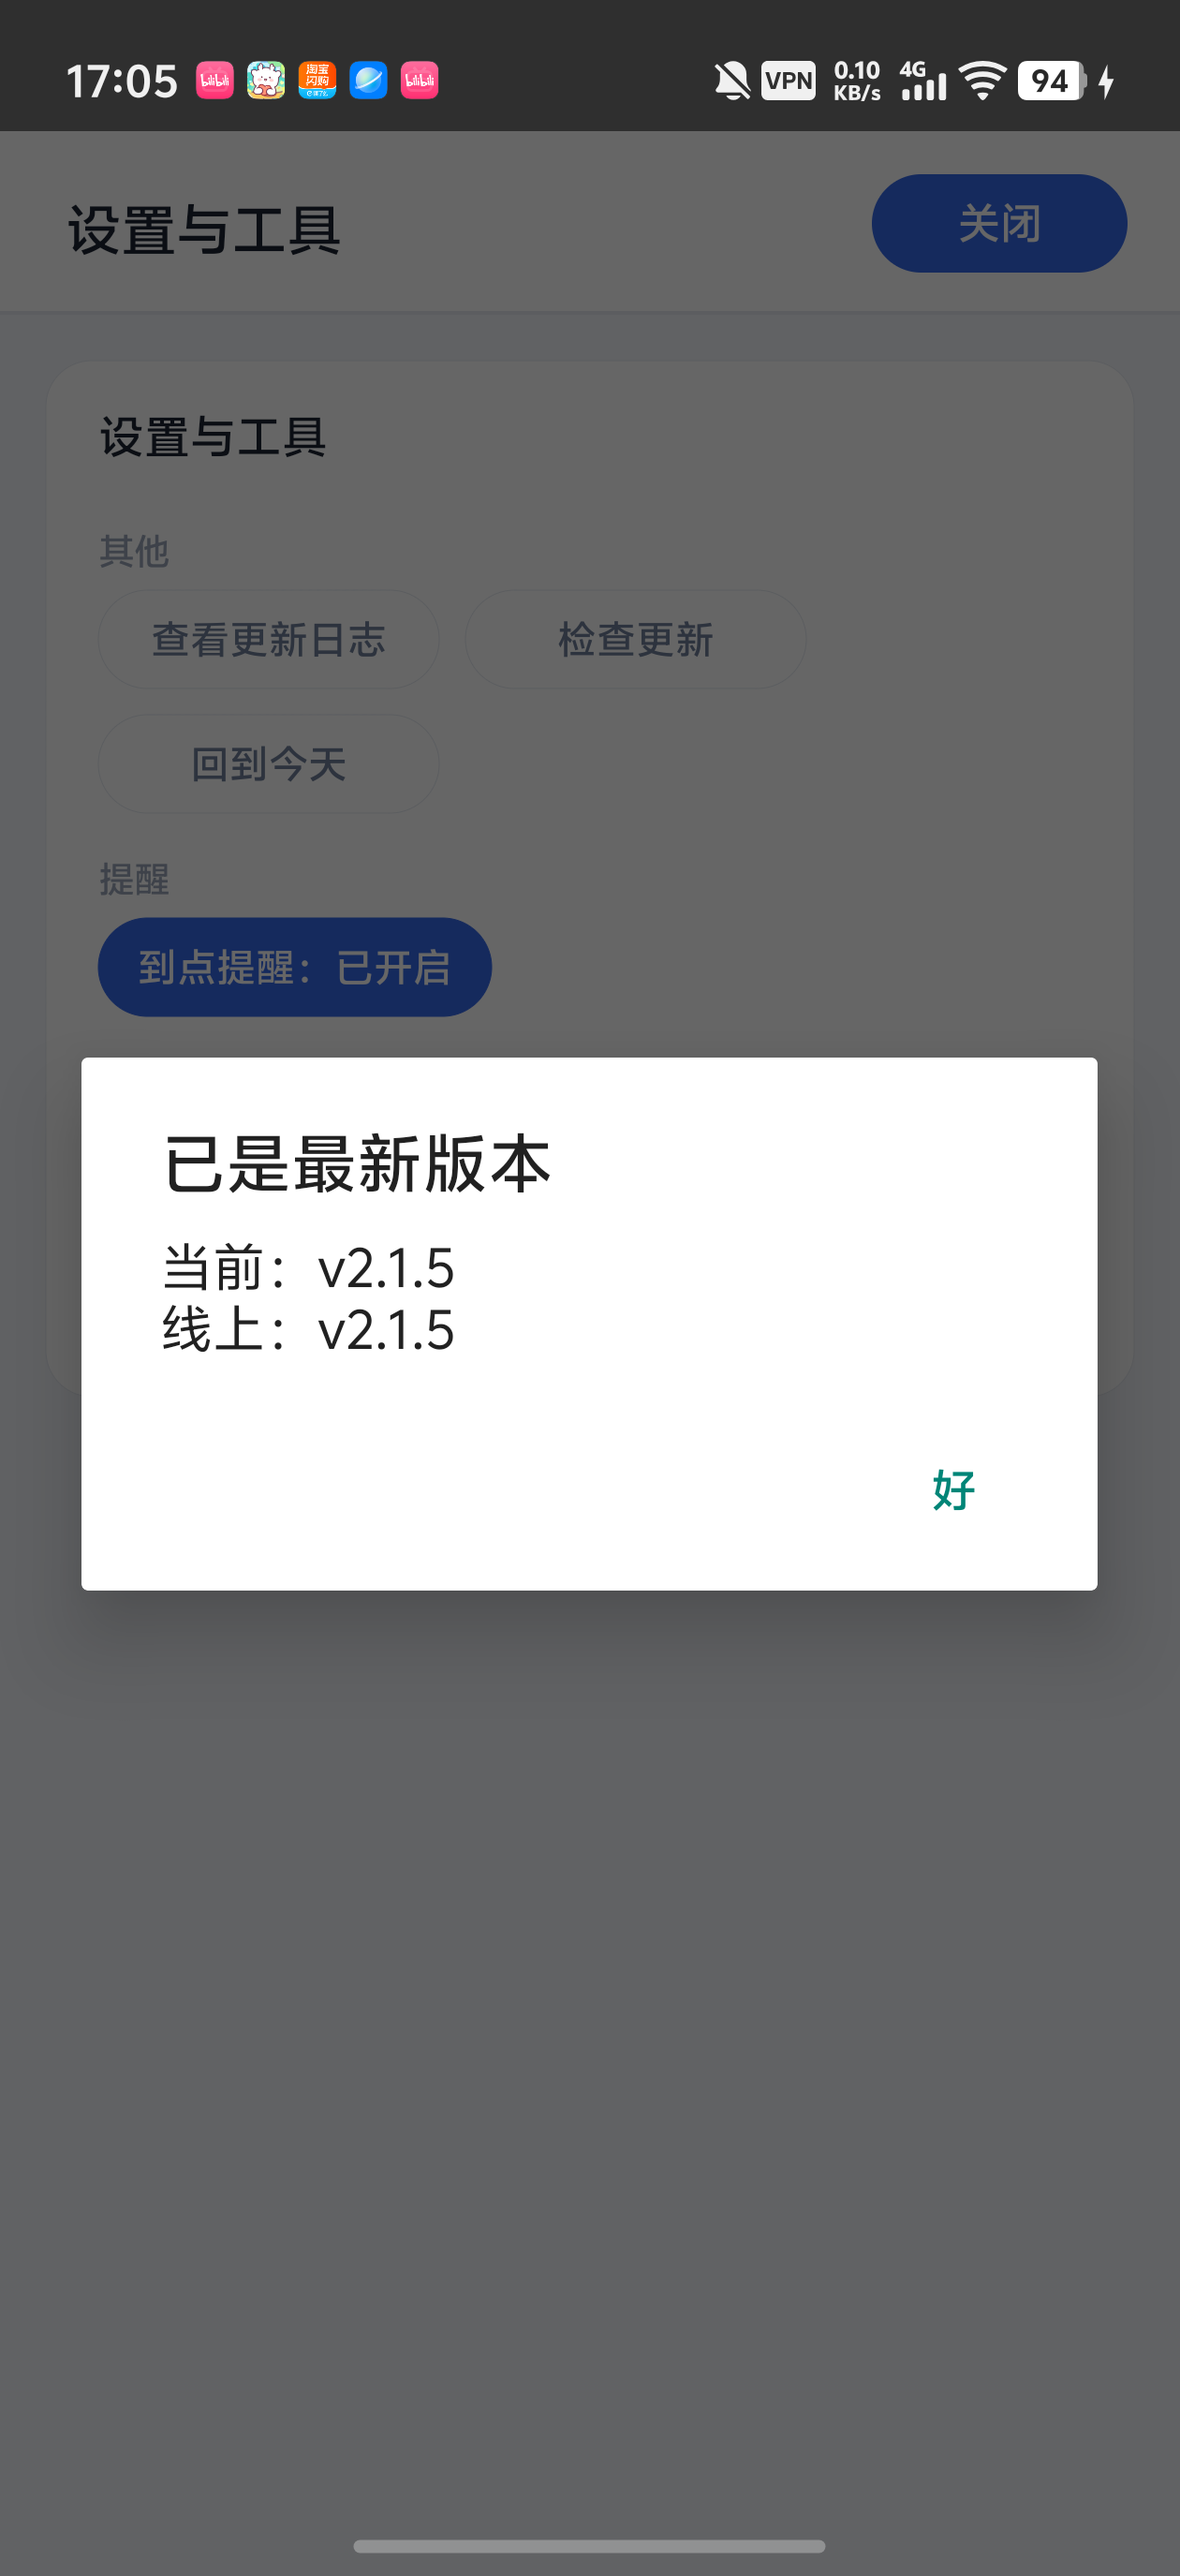
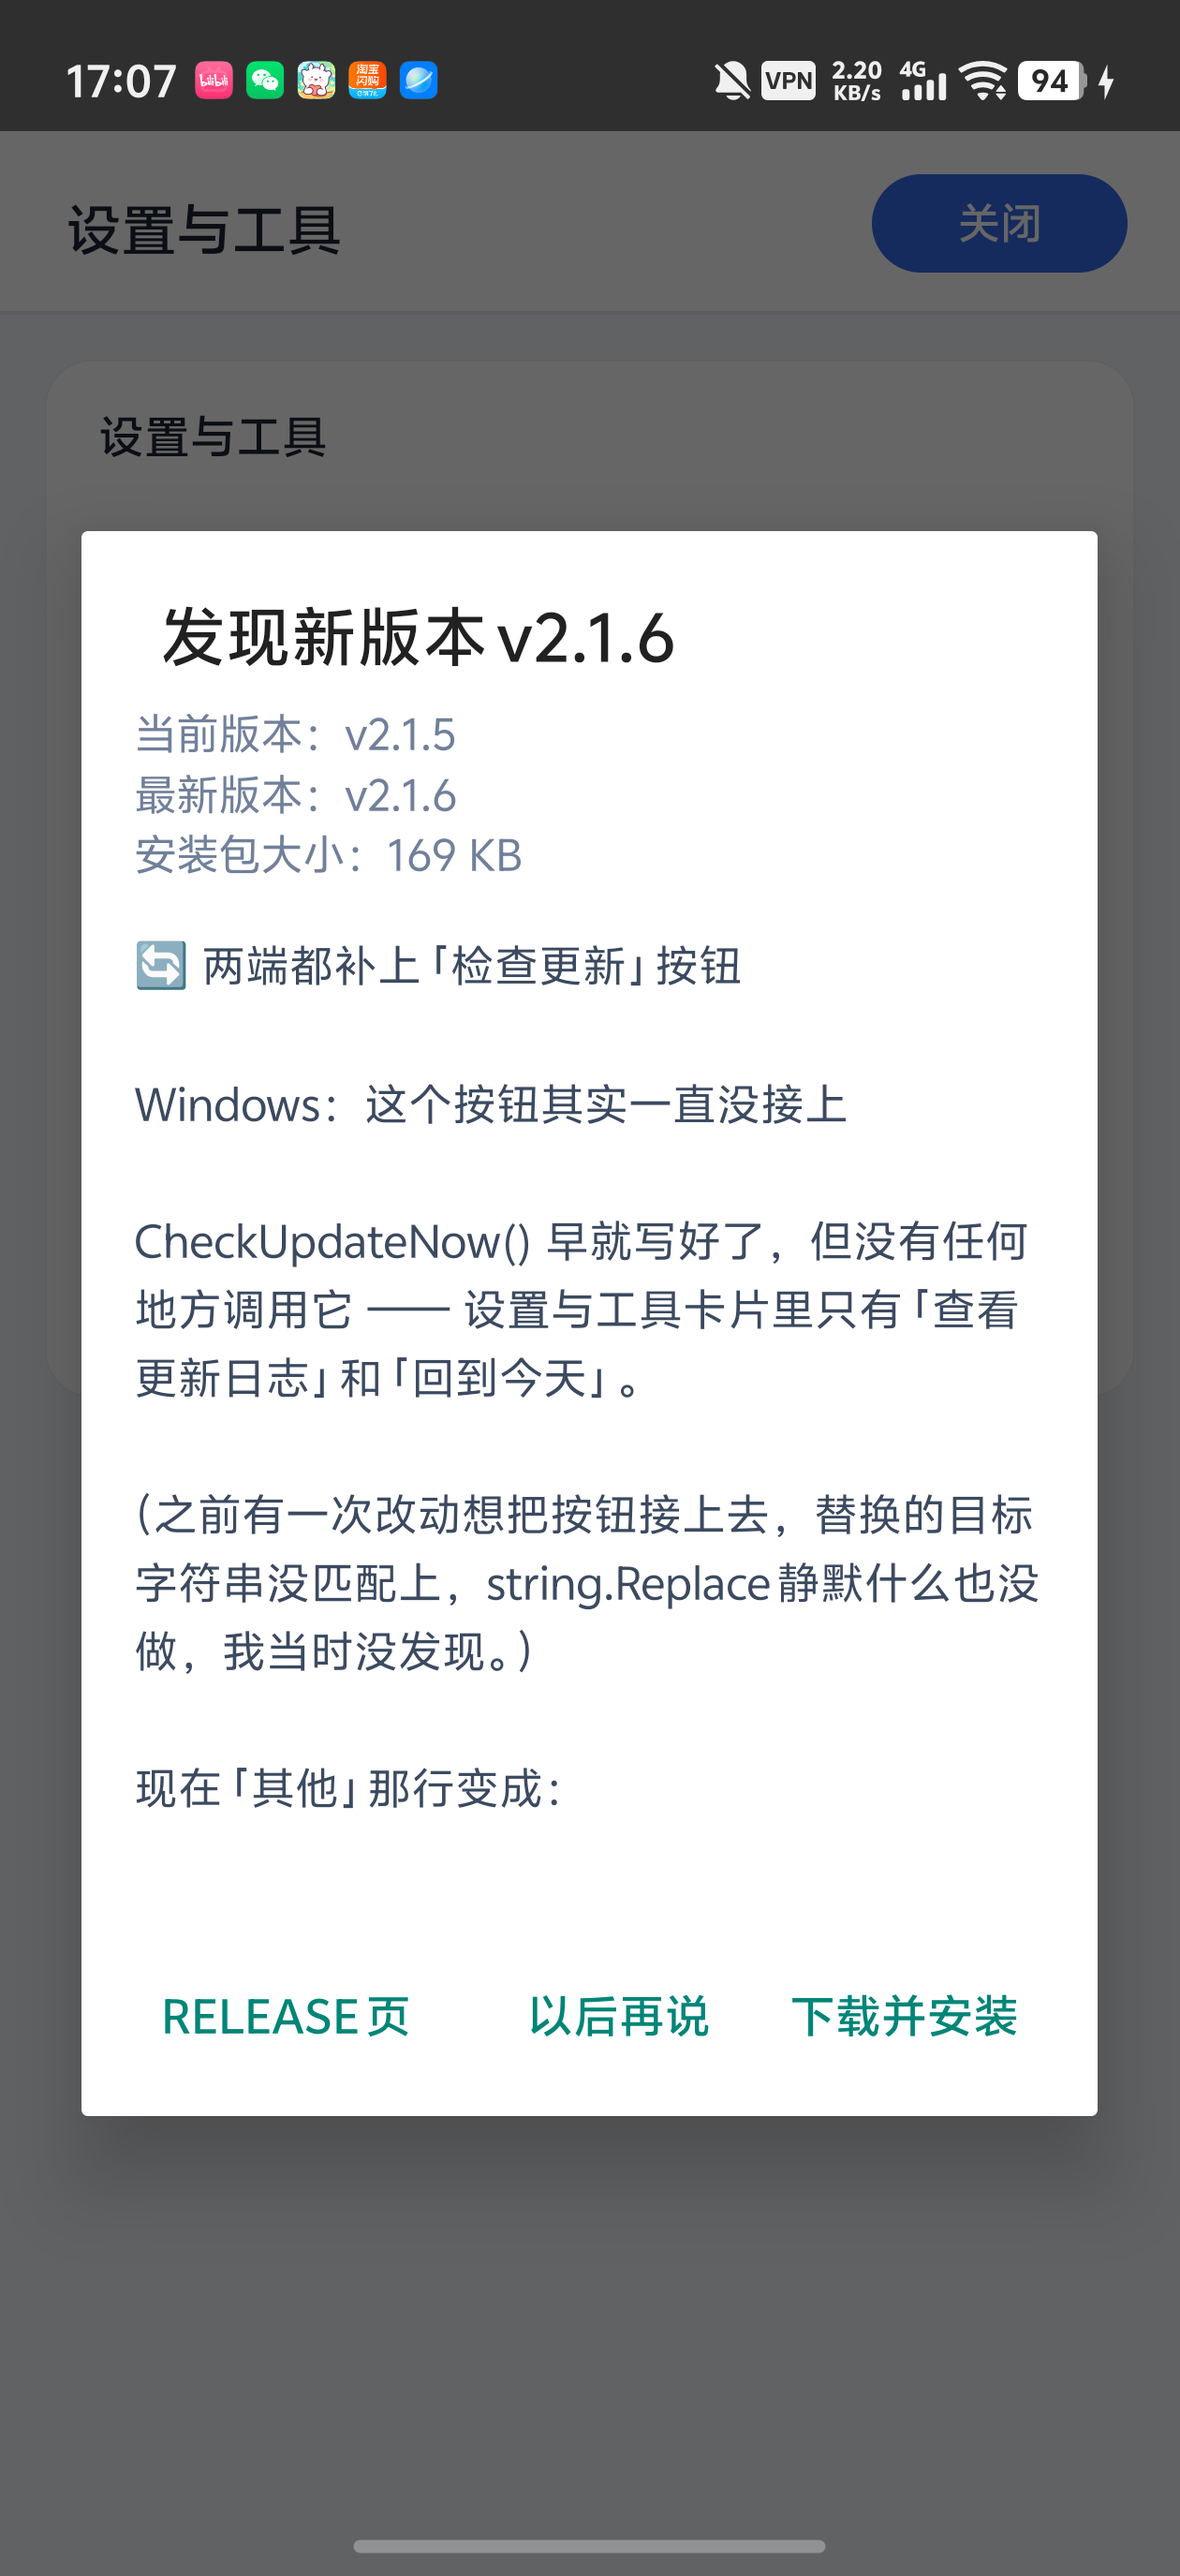
v2.1.7：升级弹窗按钮不再全大写
Material 主题默认把对话框按钮文字转成全大写，
'Release 页' 显示成了 'RELEASE 页'。
show() 之后逐个 setAllCaps(false) 关掉。

diff --git a/StudyCompanionAndroid/src/com/studycompanion/MainActivity.java b/StudyCompanionAndroid/src/com/studycompanion/MainActivity.java
@@ -136,17 +136,26 @@ public class MainActivity extends Activity implements MainView.Listener {
                     android.widget.LinearLayout.LayoutParams.MATCH_PARENT, h));
         }
 
-        new AlertDialog.Builder(this)
+        AlertDialog dlg = new AlertDialog.Builder(this)
                 .setTitle("发现新版本 " + rel.tag)
                 .setView(box)
                 .setPositiveButton("下载并安装", new DialogInterface.OnClickListener() {
-                    public void onClick(DialogInterface dlg, int w) { downloadApk(rel); }
+                    public void onClick(DialogInterface d2, int w) { downloadApk(rel); }
                 })
                 .setNeutralButton("Release 页", new DialogInterface.OnClickListener() {
-                    public void onClick(DialogInterface dlg, int w) { openUrl(rel.pageUrl); }
+                    public void onClick(DialogInterface d2, int w) { openUrl(rel.pageUrl); }
                 })
                 .setNegativeButton("以后再说", null)
-                .show();
+                .create();
+        dlg.show();
+
+        // Material 主题默认把对话框按钮文字转成全大写（"Release 页" -> "RELEASE 页"），关掉
+        android.widget.Button b1 = dlg.getButton(AlertDialog.BUTTON_POSITIVE);
+        android.widget.Button b2 = dlg.getButton(AlertDialog.BUTTON_NEUTRAL);
+        android.widget.Button b3 = dlg.getButton(AlertDialog.BUTTON_NEGATIVE);
+        if (b1 != null) b1.setAllCaps(false);
+        if (b2 != null) b2.setAllCaps(false);
+        if (b3 != null) b3.setAllCaps(false);
     }
 
     /** 上次崩溃过就把堆栈弹出来 —— 手机上没法看 logcat，这是唯一能拿到线索的办法 */

diff --git a/StudyCompanionAndroid/src/com/studycompanion/GitHub.java b/StudyCompanionAndroid/src/com/studycompanion/GitHub.java
@@ -34,7 +34,7 @@ public class GitHub {
     public static final String SCOPE = "repo";
 
     /** 鏈?APK 瀵瑰簲鐨?Release 鏍囩銆傛瘡娆″彂鐗堟椂涓?Release 涓€璧锋敼锛岀敤浜庡垽鏂湁娌℃湁鏂扮増銆?*/
-    public static final String VERSION_TAG = "v2.1.6";
+    public static final String VERSION_TAG = "v2.1.7";
 
     public static final String DEVICE_CODE_URL = "https://github.com/login/device/code";
     public static final String TOKEN_URL = "https://github.com/login/oauth/access_token";

diff --git a/StudyCompanion/src/GitHub.cs b/StudyCompanion/src/GitHub.cs
@@ -49,7 +49,7 @@ namespace StudyCompanion
         public const string Scope = "repo";
 
         /// <summary>本 exe 对应的 Release 标签，用于判断有没有新版</summary>
-        public const string VersionTag = "v2.1.6";
+        public const string VersionTag = "v2.1.7";
 
         public const string SyncPath = "sync/progress.txt";
         /// <summary>打卡记录的 CSV 也会自动传到这里，不用手动导出</summary>

diff --git a/CHANGELOG.md b/CHANGELOG.md
@@ -4,6 +4,15 @@
 
 ---
 
+## v2.1.7 —— 升级弹窗按钮不再全大写
+
+Material 主题默认把对话框按钮文字转成全大写，所以 v2.1.5 的弹窗里
+「Release 页」显示成了 **「RELEASE 页」**，看着很出戏。
+
+`show()` 之后拿到三个按钮，逐个 `setAllCaps(false)` 关掉即可。
+
+---
+
 ## v2.1.6 —— Windows 的升级提示也重做
 
 上一版修的是手机端。回头一看，**Windows 的升级提示有一模一样的毛病**：

diff --git a/StudyCompanionAndroid/assets/CHANGELOG.md b/StudyCompanionAndroid/assets/CHANGELOG.md
@@ -4,6 +4,15 @@
 
 ---
 
+## v2.1.7 —— 升级弹窗按钮不再全大写
+
+Material 主题默认把对话框按钮文字转成全大写，所以 v2.1.5 的弹窗里
+「Release 页」显示成了 **「RELEASE 页」**，看着很出戏。
+
+`show()` 之后拿到三个按钮，逐个 `setAllCaps(false)` 关掉即可。
+
+---
+
 ## v2.1.6 —— Windows 的升级提示也重做
 
 上一版修的是手机端。回头一看，**Windows 的升级提示有一模一样的毛病**：
